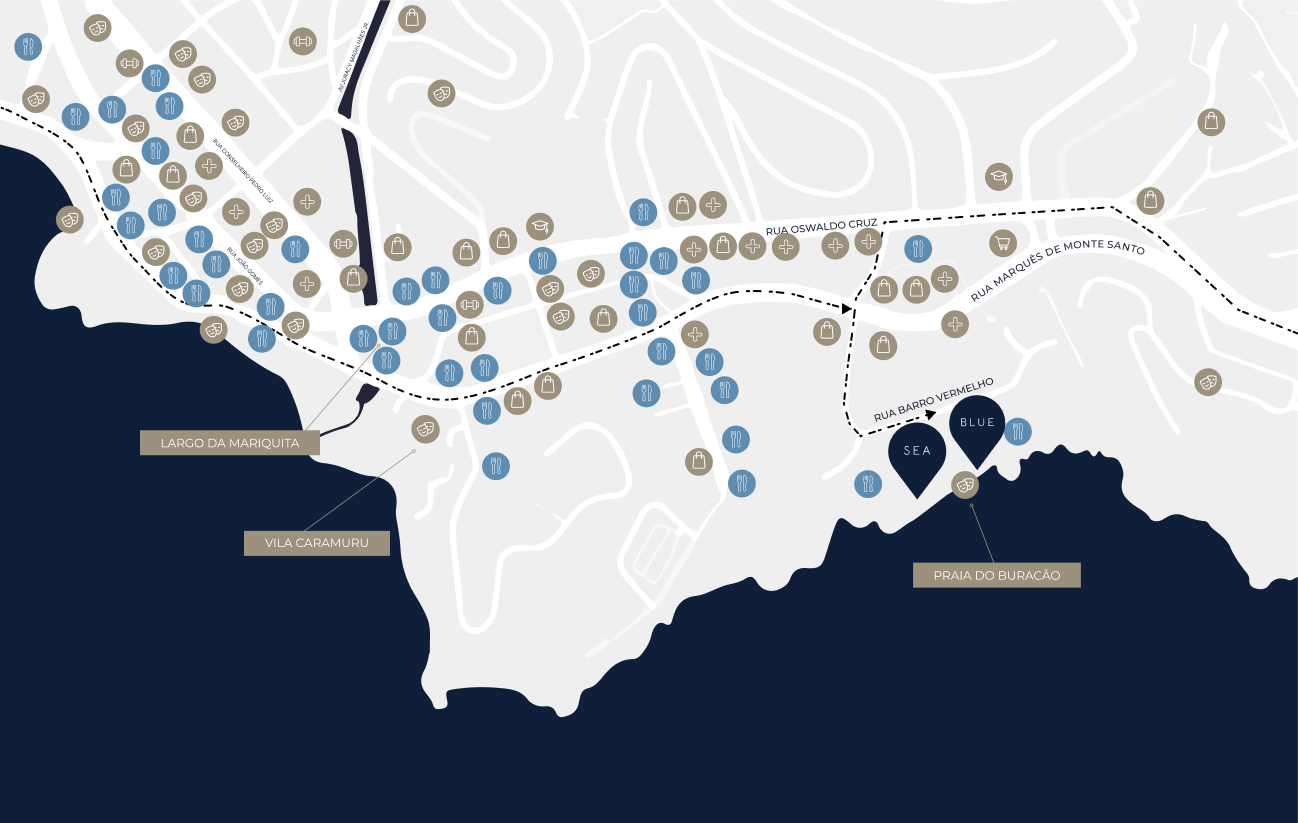
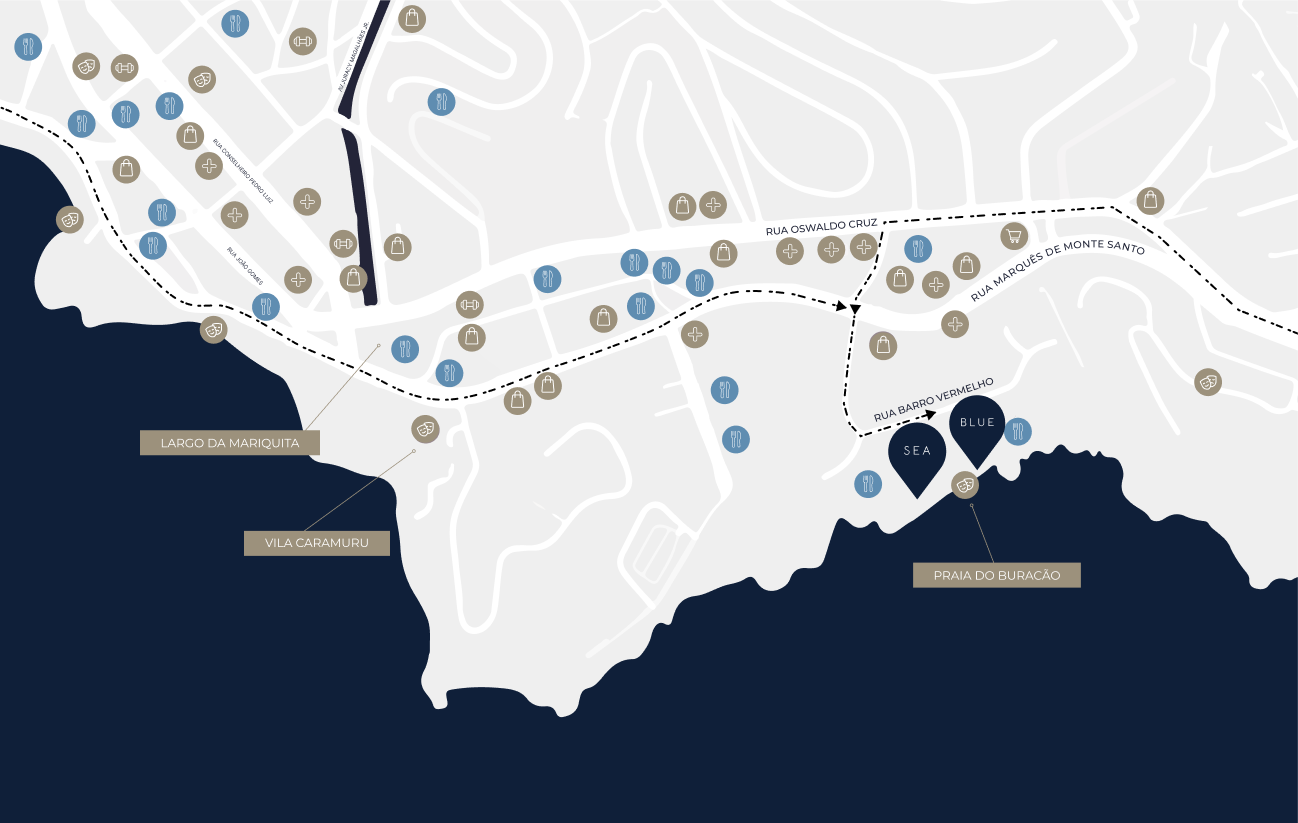
imagens

diff --git a/pages/localizacao/index.tsx b/pages/localizacao/index.tsx
@@ -5,12 +5,12 @@ import { allSettings, getImagesByText, getPage } from "../../lib/api";
 import { Settings, Page, Image } from "../../models";
 import Header from "../../components/header";
 import MiniMenuLocation from "../../components/mini-menu-location";
-import { useMemo, useState } from "react";
+import { useState } from "react";
 import { slugify } from '../../helpers/slugify'
 import Conv01 from '../../public/conv01.svg';
 import Conv02 from '../../public/conv02.svg';
 import Conv03 from '../../public/conv03.svg';
-import Conv04 from '../../public/conv04.svg';
+// import Conv04 from '../../public/conv04.svg';
 import Conv05 from '../../public/conv05.svg';
 import Conv06 from '../../public/conv06.svg';
 import Conv07 from '../../public/conv07.svg';
@@ -28,7 +28,7 @@ const points = [
   { title: "Gastronomia", icon: <Conv01 className="scale-[0.7]" /> },
   { title: "Supermercado ", icon: <Conv02 className="scale-[0.6]" /> },
   { title: "Serviços / Comércio", icon: <Conv03 className="scale-[0.65]" /> },
-  { title: "Educação", icon: <Conv04 className="scale-[0.7]" /> },
+  // { title: "Educação", icon: <Conv04 className="scale-[0.7]" /> },
   { title: "Lazer", icon: <Conv05 className="scale-[0.7]" /> },
   { title: "Saúde", icon: <Conv06 className="scale-[0.8]" /> },
   { title: "Bem-estar", icon: <Conv07  className="scale-[0.7]" /> },
